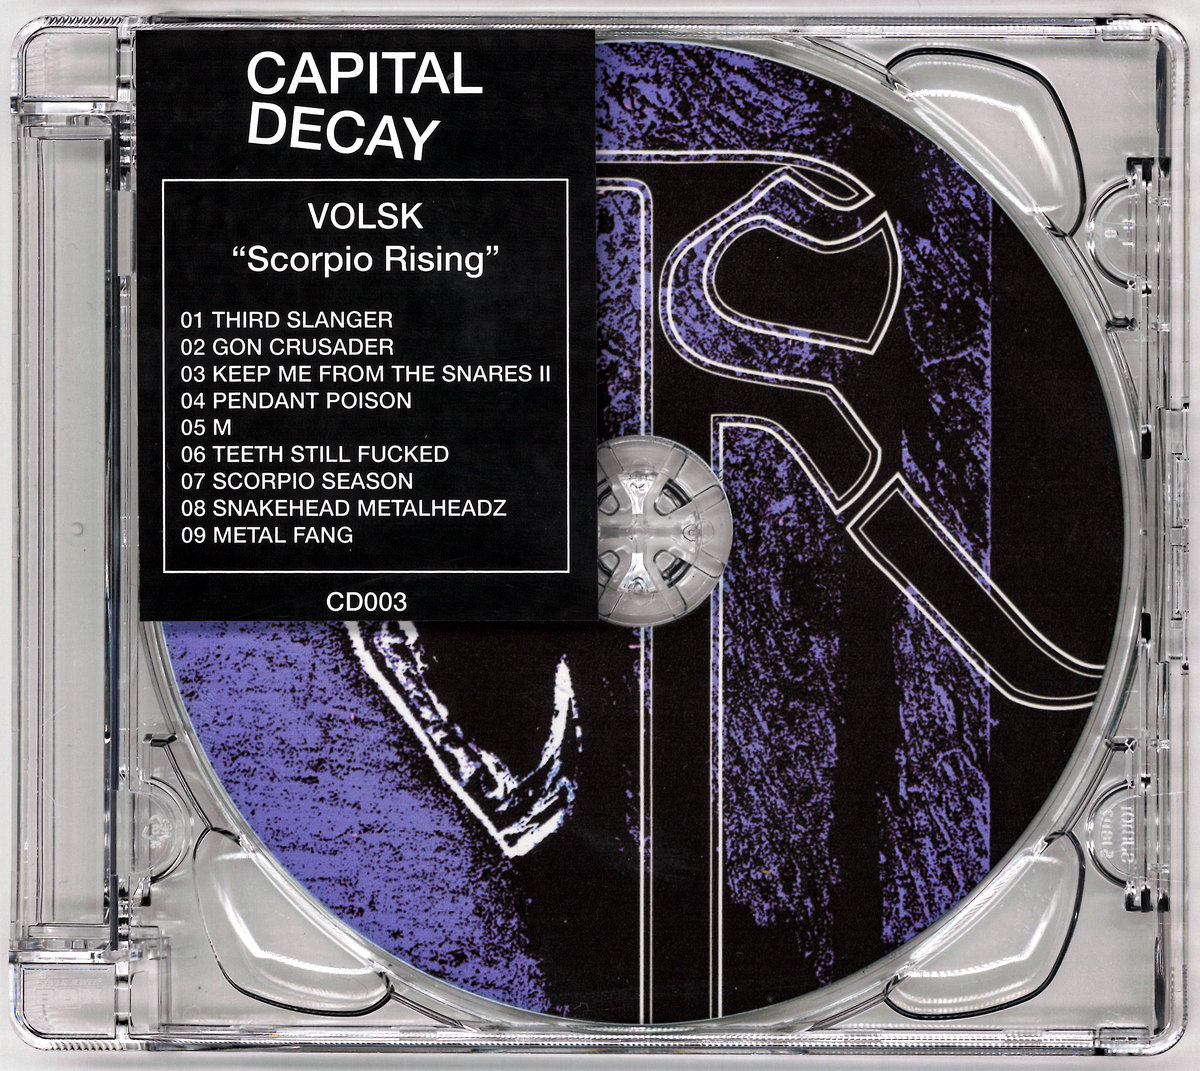
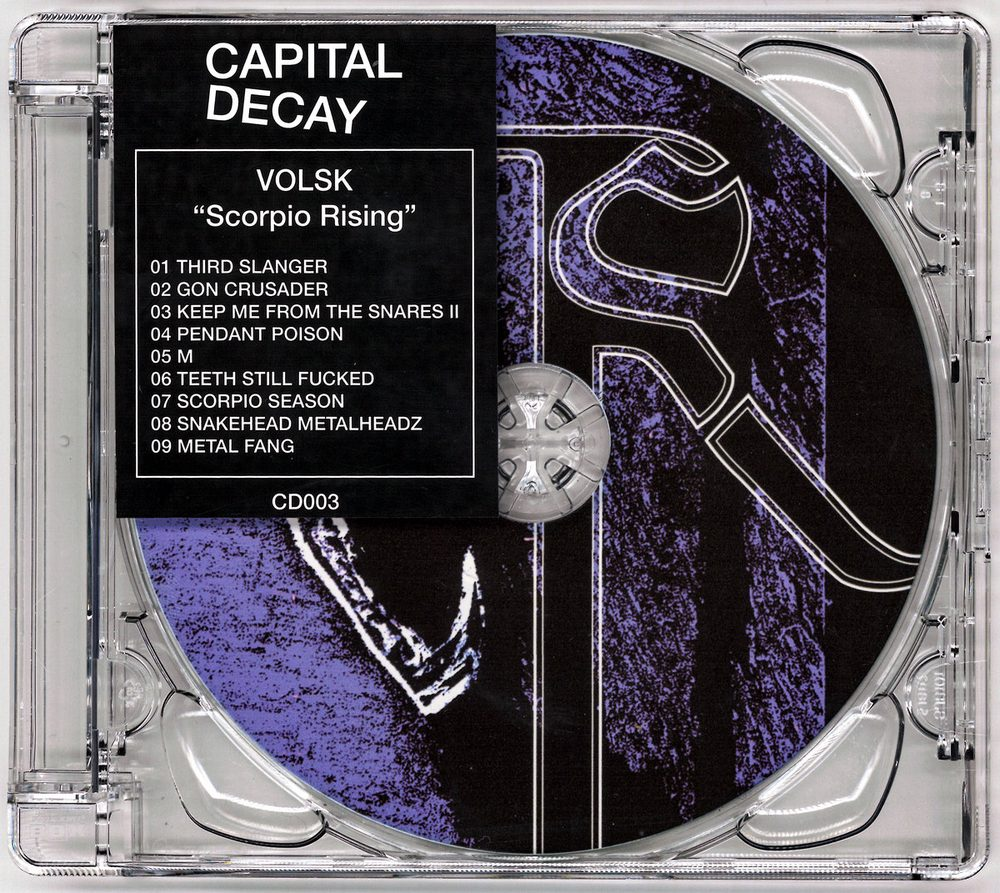
Faster images: smaller files, covers preloaded
- Covers resized to 1000 px, project photos to 2000 px, JPEG quality 82 (21 MB -> 6 MB)
- Camera data removed from photos; orientation kept
- permafrost1.png -> permafrost1.jpg (it had no transparency); site.js updated
- Work, Discography and Catalog fetch all preview images in the background after the page loads

Claude-Session: https://claude.ai/code/session_01EG4bV4sPCXcdXqsF4mESMJ

Changed region(s): [[0.062, 0.0, 0.093, 0.0302]]

diff --git a/discography/index.html b/discography/index.html
@@ -146,6 +146,19 @@ td.role{white-space:nowrap}
     // arriving from the search (discography/index.html#r5): show that release and scroll to it
     var m = /^#r(\d+)$/.exec(location.hash), n = m ? +m[1] - 1 : 0;
     if (!list[n]) n = 0;
+
+    // once the page has loaded, fetch every cover quietly in the background, so hovering shows it at once
+    window.addEventListener('load', function(){
+      list.forEach(function(x){
+        if (!x.cover) return;
+        var src = root + x.cover;
+        if (src in cache) return;
+        var pre = new Image();
+        pre.onload = function(){ cache[src] = true; };
+        pre.onerror = function(){ cache[src] = false; };
+        pre.src = src;
+      });
+    });
     var start = $('rows').children[n];
     show(list[n], start);
     if (m) start.scrollIntoView({ block: 'center' });

diff --git a/catalog/index.html b/catalog/index.html
@@ -144,6 +144,19 @@ td.tt{font-weight:500}
     // arriving from the search (catalog/index.html#c3): show that release and scroll to it
     var m = /^#c(\d+)$/.exec(location.hash), k = m ? +m[1] - 1 : 0;
     if (!list[k]) k = 0;
+
+    // once the page has loaded, fetch every cover quietly in the background, so hovering shows it at once
+    window.addEventListener('load', function(){
+      list.forEach(function(x){
+        if (!x.cover) return;
+        var src = root + x.cover;
+        if (src in cache) return;
+        var pre = new Image();
+        pre.onload = function(){ cache[src] = true; };
+        pre.onerror = function(){ cache[src] = false; };
+        pre.src = src;
+      });
+    });
     var start = $('rows').children[k];
     show(list[k], start);
     if (m) start.scrollIntoView({ block: 'center' });

diff --git a/work/index.html b/work/index.html
@@ -121,6 +121,19 @@ const PAGE = {
       a.addEventListener('focus', function(){ show(p, tr); });
       $('rows').appendChild(tr);
     });
+
+    // once the page has loaded, fetch every preview image quietly in the background, so hovering shows it at once
+    window.addEventListener('load', function(){
+      list.forEach(function(x){
+        if (!x.image) return;
+        var src = root + x.image;
+        if (src in cache) return;
+        var pre = new Image();
+        pre.onload = function(){ cache[src] = true; };
+        pre.onerror = function(){ cache[src] = false; };
+        pre.src = src;
+      });
+    });
     show(list[0], $('rows').firstChild);
   } catch (e) {
     console.error(e);

diff --git a/assets/site.js b/assets/site.js
@@ -56,7 +56,7 @@ const SITE = {
     {
       title: "Permafrost", year: "2023", type: "Live AV / Installation", role: "",
       link: "",                          // later: "work/permafrost/index.html"
-      image: "work/permafrost/imgs/permafrost1.png",
+      image: "work/permafrost/imgs/permafrost1.jpg",
       text: "",
       keywords: "live audiovisual av"
     },
